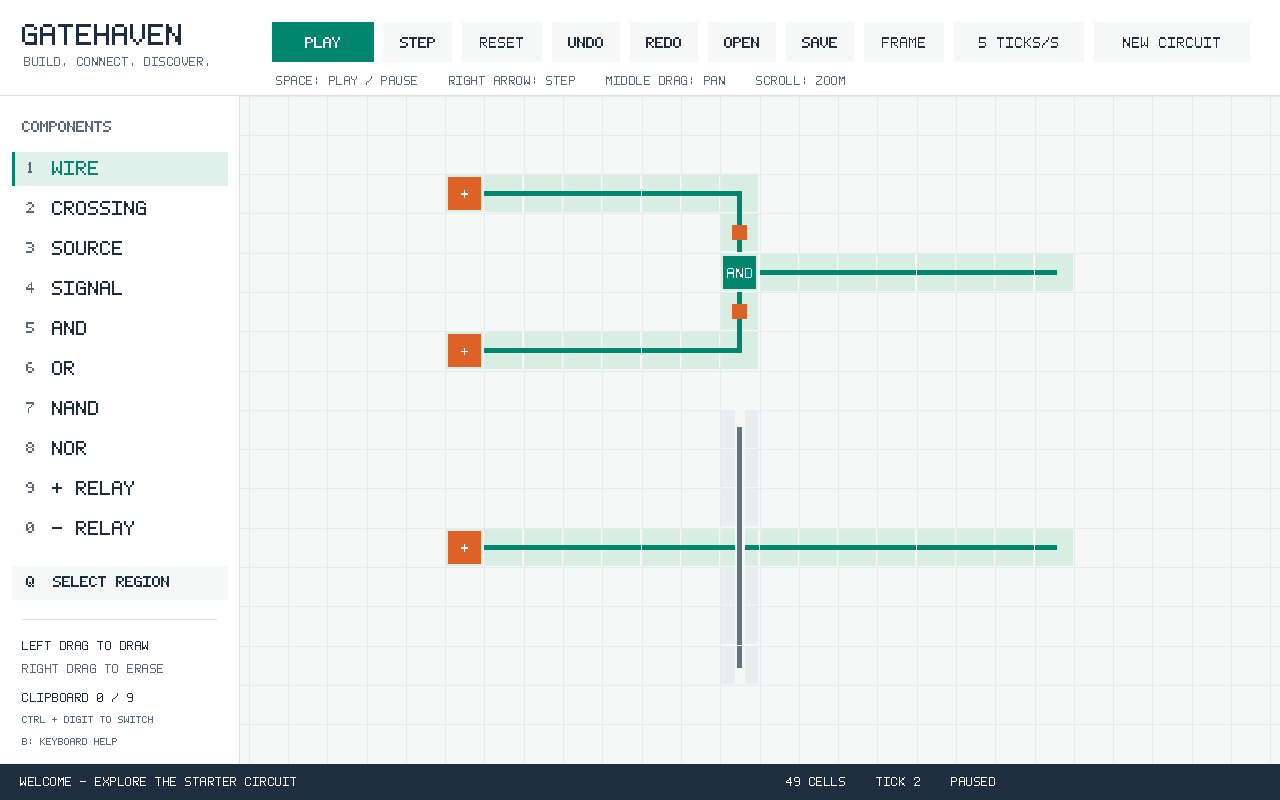
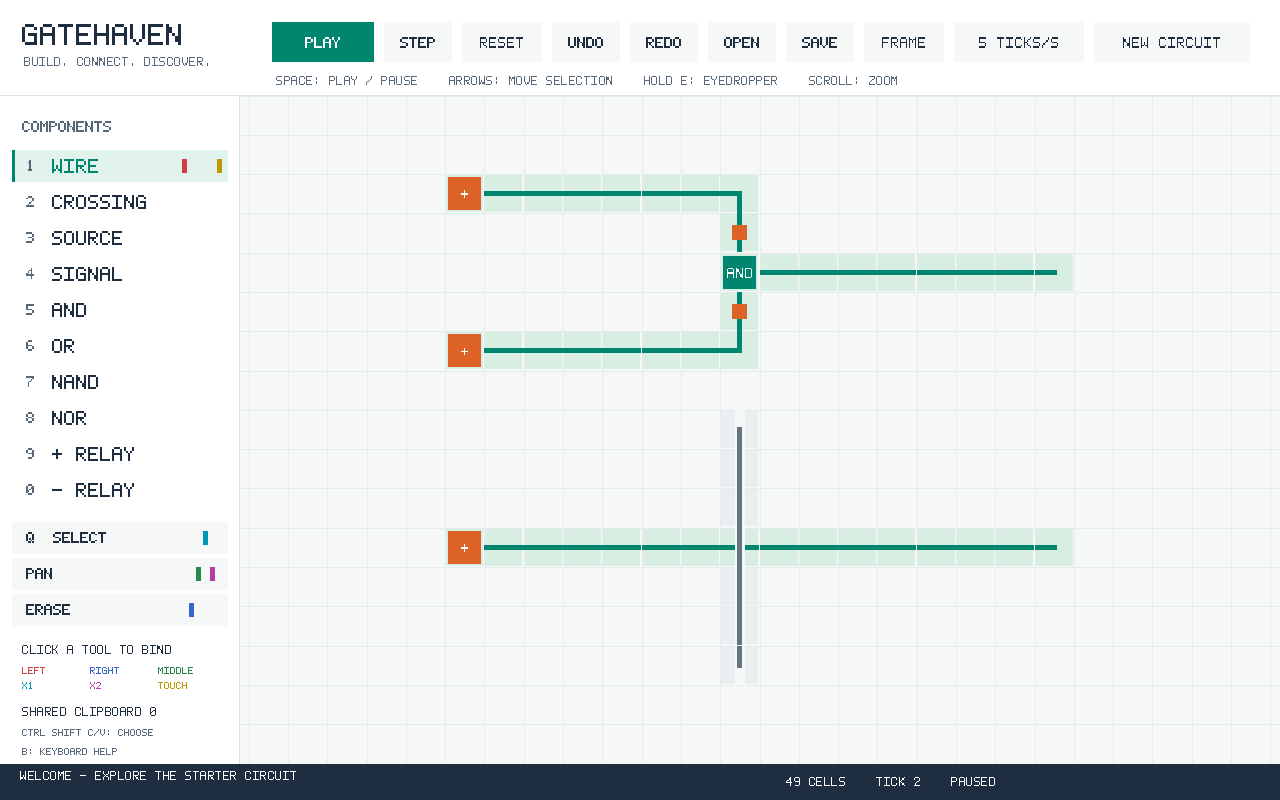
docs: describe shared editing workflows and update milestone verification

diff --git a/README.md b/README.md
@@ -15,8 +15,9 @@ for exactly what has been tested.
 
 ## Try the core
 
-A C++23 compiler and CMake 3.28 or later are required. The core has no external
-dependencies. The initial local build uses GCC 13.3.0 and CMake 4.4.4.
+A C++23 compiler and CMake 3.28 or later are required. The simulation core has no
+external dependencies. Tests also require Python 3 for the cross-process checks.
+The initial local build uses GCC 13.3.0 and CMake 4.4.4.
 
 ```sh
 git clone https://github.com/michaelbawuah/Gatehaven.git
@@ -54,21 +55,36 @@ configuration subdirectories may apply. The starter circuit opens automatically.
 | Action | Input |
 | --- | --- |
 | Choose a component | Sidebar or digits 1 through 0 |
-| Draw / erase | Left / right mouse drag |
-| Pan / zoom | Middle mouse drag / scroll wheel |
-| Play or pause / single step | Space / Right arrow |
+| Bind a tool | Click its sidebar name with the button to bind |
+| Draw / erase (default bindings) | Left / right mouse drag |
+| Pan / zoom (default bindings) | Middle mouse drag / scroll wheel |
+| Sample a component tool | Hold E and click with the button to bind |
+| Play or pause / single step | Space / Right arrow when no selection is active |
+| Set simulation speed | Ctrl+Space or the speed button; 1–1,000 ticks/s |
 | Reset / frame circuit | R / F |
 | Select a region | Q, then drag |
+| Move a selection | Arrow keys; hold Ctrl to move four cells |
 | Copy / cut / paste | Ctrl+C / Ctrl+X / Ctrl+V |
+| Copy / cut / paste with a chosen shared clipboard | Ctrl+Shift+C / Ctrl+Shift+X / Ctrl+Shift+V, then 0–9 |
 | Undo / redo | Ctrl+Z / Ctrl+Y |
 | Rotate / flip selection or clipboard | [ and ] / H and V |
-| Choose one of ten local clipboards | Ctrl+0 through Ctrl+9 |
 | Save / Save As / Open / New | Ctrl+S / Ctrl+Shift+S / Ctrl+O / Ctrl+N |
 | Show keyboard help | B |
 
 Command can replace Ctrl on macOS. Undo records one drawing stroke as one edit.
 Gate and relay pencils place a Signal when clicked on an existing cell of the
 same type. Native documents use `.ghv`; `.ccsb` import is still planned.
+
+New and Open launch separate Gatehaven instances and preserve the current
+document. All running instances share ten session clipboards. Ordinary copy,
+cut, and paste use slot 0, which follows the last clipboard used. The clipboard
+chooser selects a particular slot; an active paste preview stays unchanged if
+another window updates it. Closing the last instance clears clipboard contents.
+After an abrupt shutdown of every instance, the next launch clears abandoned data.
+
+The binding markers identify left (red), right (blue), middle (green), X1 (cyan),
+X2 (magenta), and touch (yellow). Button bindings are kept for the current window;
+saved preferences and full multitouch navigation are still planned.
 
 ## Under the hood
 
@@ -79,9 +95,12 @@ same type. Native documents use `.ghv`; `.ccsb` import is still planned.
 - Documents are validated before loading. Saves replace the destination only
   after a temporary file has been written and closed successfully.
 - Desktop controls have an automated smoke test using SDL's event queue.
+- Shared clipboard tests run separate processes, exchange data concurrently,
+  terminate peers, and verify session cleanup and recovery.
 
 [Architecture](docs/architecture.md) · [Roadmap](docs/roadmap.md) ·
-[Document format](docs/document-format.md) · [Verification](docs/verification.md)
+[Document format](docs/document-format.md) · [Shared clipboards](docs/shared-clipboards.md) ·
+[Verification](docs/verification.md)
 
 The application source does not yet have a selected public license.
 External library notices are retained in `third_party/` and must accompany

diff --git a/docs/shared-clipboards.md b/docs/shared-clipboards.md
@@ -1,0 +1,56 @@
+# Shared session clipboards
+
+Gatehaven has ten application clipboards shared by its running instances for the
+same OS user. They are separate from the operating system's text/image clipboard.
+Ctrl+C/X/V uses slot 0. Ctrl+Shift+C/X/V opens a numbered chooser. Copying to or
+pasting from an explicit slot makes slot 0 follow that slot. Copying directly to
+0 gives it a value of its own until another explicit slot is used.
+
+The desktop stores session files under `clipboards-v1` in SDL's per-user
+application preference directory. A shared `members.lock` is held by every live
+instance. `transaction.lock` serializes slot operations and membership changes.
+On POSIX these use `flock`; Windows uses `LockFileEx`. Locks are not inherited by
+new processes and the OS releases them when a process exits or crashes.
+
+Joining holds the transaction lock before probing the membership lock exclusively.
+If the exclusive lock succeeds, this is the first instance and stale payloads are
+cleared before acquiring shared membership. Leaving uses the same order: release
+membership, probe exclusive membership, and clear payloads if this is the last
+instance. Lock files remain in place to avoid creating different lock identities
+while another process is opening them. Lock acquisition times out after two
+seconds with a retryable error rather than waiting forever.
+
+If all instances crash, payload files can remain on disk until the next launch,
+which clears them. They are not a persistent circuit library. Normal final exit
+removes slot data, the default index, and any pending temporary file. A failed
+cleanup is retried by the next first member.
+
+## Stamp format, version 1
+
+All integers are unsigned and little-endian. The maximum is 1,000,000 cells and
+9,000,040 bytes per slot. Offsets preserve the selection's empty borders.
+
+| Field | Size | Rule |
+| --- | --- | --- |
+| Magic | 8 bytes | `GHCLIP01` |
+| Width, height | 8 bytes each | 1 through 2^32; both zero for an empty stamp |
+| Cell count | 8 bytes | 0 through 1,000,000 |
+| Each cell | 9 bytes | x: 4 bytes, y: 4 bytes, element: 1 byte |
+| Checksum | 8 bytes | FNV-1a 64 over all preceding bytes |
+
+Readers reject unknown/empty element values, duplicate positions, offsets
+outside the dimensions, oversized counts, length mismatches, and failed
+checksums. The checksum detects corruption; it does not authenticate a sender.
+The session directory is private to its user. Do not place it on a shared or
+network filesystem; the supported application path is local per-user storage.
+
+Payload writes use a closed temporary file and atomic replacement under the
+transaction lock. The default slot is a one-byte index, also replaced atomically.
+A process dying between payload and index replacement can leave the previous
+default index, but it cannot expose a partially written payload. Failed writes
+never delete the source of a cut operation. A paste preview captures one local
+snapshot, so another instance cannot change it while it is being positioned.
+
+The Python integration test starts separate compiled peers, coordinates their
+operations, forces process exits, and checks both data and cleanup. It runs on
+all three core CI platforms and under the Linux sanitizers.

diff --git a/docs/verification.md b/docs/verification.md
@@ -7,22 +7,37 @@ operating-system file dialogs.
 
 ## Verified locally
 
-- 32 core test cases pass in debug and release builds. Parameterized cases
+- 39 core/platform test cases pass in the local debug build. Parameterized cases
   exercise all four gates with zero through four inputs and every active-input
   count, relay behavior, delayed rising/falling edges, crossing isolation,
   deterministic insertion order, and coordinate boundaries.
 - Document tests cover malformed input, duplicate cells, coordinate overflow,
   resource limits, comments, CRLF, round trips, save replacement, and failed saves.
 - Editor tests cover stroke transactions, undo/redo branching, memory limits,
-  rotations, flips, sparse capture, and paste overflow.
+  rotations, flips, sparse capture, paste overflow, and overlapping selection moves.
+- Clipboard codec checks cover full coordinate extents, preserved empty borders,
+  every truncated prefix and single-byte bit flip of a sample message, and
+  structurally invalid messages with otherwise correct checksums.
+- The cross-process clipboard test checks concurrent writers, numbered slots,
+  default-slot caching, late joiners, live survivors after a peer is killed,
+  normal last-member cleanup, restart after a crash, and damaged payload recovery.
 - The desktop smoke test injects SDL keyboard and mouse events, then verifies
-  play/pause, stepping, drawing, undo/redo, reset, and a rendered frame.
+  play/pause, stepping, drawing, undo/redo, reset, custom speed validation,
+  clipboard menus, shared copy/paste, stable placement previews, failure-safe cut,
+  selection movement, five button bindings, touch-tagged pointer events,
+  eyedropper sampling, rebound panning, and a rendered frame. New/Open requests
+  are checked for document preservation, and a real child executable runs the
+  headless smoke workflow independently.
 - A starter-circuit screenshot was rendered from the application and visually
   inspected. Small-font rasterization and connection drawing were corrected.
 - AddressSanitizer and UndefinedBehaviorSanitizer checks run separately from the
   normal build. Local leak detection is unavailable because this environment
   blocks LeakSanitizer's `/proc` task inspection; the GitHub job keeps leak
   detection enabled so that check can run on a normal runner.
+
+The milestone extends desktop CI to all three target operating systems. The
+current run's result must be checked on GitHub; adding a workflow is not evidence
+that it passed. Simulated touch events do not substitute for touchscreen testing.
 
 ## Initial performance measurement
 

diff --git a/docs/building.md b/docs/building.md
@@ -12,7 +12,9 @@ cmake --build --preset core
 ctest --preset core
 ```
 
-The core has no SDL dependency. CMake applies high warning levels and treats
+The core has no SDL dependency. Test builds require Python 3, which drives the
+cross-process clipboard tests. Set `GATEHAVEN_BUILD_TESTS=OFF` for a build without
+that test dependency. CMake applies high warning levels and treats
 project warnings as errors. C++ extensions are disabled.
 
 ## Desktop with vcpkg
@@ -58,9 +60,10 @@ cmake -S . -B build/installed-sdl -DGATEHAVEN_BUILD_APP=ON -DCMAKE_PREFIX_PATH=/
 cmake --build build/installed-sdl --config Debug
 ```
 
-The software-only Linux CI job builds exactly SDL commit
-`829a65d769d935c4852f8159e964312c0957260a` (release-3.4.18), disabling real display
-backends for its dummy-driver smoke test. It does not exercise X11 or Wayland.
+Desktop CI builds on Linux, macOS, and Windows use exactly SDL commit
+`829a65d769d935c4852f8159e964312c0957260a` (release-3.4.18). The Linux job disables
+real display backends. All three use a software renderer and dummy video driver
+for automation; these runs do not establish physical display or native dialog QA.
 
 ## Tests and tools
 
@@ -81,6 +84,11 @@ non-MSVC compilers. The desktop self-test can run without a display:
 SDL_VIDEODRIVER=dummy ./build/desktop/gatehaven --self-test
 SDL_VIDEODRIVER=dummy ./build/desktop/gatehaven --snapshot preview.bmp
 ```
+
+The `gatehaven_snapshot` build target writes `gatehaven.bmp` in the build folder
+and resolves the executable correctly for Windows configurations and macOS app
+bundles. Set `SDL_VIDEODRIVER=dummy` for headless use. `gatehaven --new` opens an
+empty circuit; a document path opens that file in the newly started instance.
 
 Use `clang-format` with the repository configuration and `clang-tidy` with
 `build/core/compile_commands.json`. Static-analysis CI is a remaining release gate.

diff --git a/docs/architecture.md b/docs/architecture.md
@@ -5,6 +5,7 @@
 - `include/gatehaven` and `src/core`: circuits, simulation, documents, and editing.
   The core has no windowing, graphics, networking, or operating-system dependency.
 - `src/app`: native SDL3 presentation and input handling.
+- `src/platform`: process identity and OS-backed clipboard session locks.
 - `tests`: executable checks of circuit rules and document/editor behavior.
 - `bench`: repeatable workloads with explicit circuit sizes and step counts.
 - `samples`: circuits authored for Gatehaven.
@@ -32,6 +33,17 @@ need an explicit ownership model and measured benefit before being introduced.
 Native documents contain circuit structure, not machine-dependent pointers or
 running simulation state. Loading must either produce a complete validated
 document or leave the current circuit unchanged.
+
+New/Open start the resolved executable using SDL's argument-array process API;
+paths never pass through a command shell. Clipboard session members keep a shared
+OS file lock for their lifetime. A separate transaction lock serializes joins,
+leaves, and payload replacement. The first member clears data left by an earlier
+crash; the last normal member clears the session. See [the protocol](shared-clipboards.md).
+
+UI copy/paste reads and writes a bounded stamp format. Cut removes cells only
+after a successful write. Paste takes a local snapshot so transforms and incoming
+copies from other windows cannot change an in-progress placement. Selection moves
+clear the source and place the destination within one undo transaction.
 
 ## Dependency policy
 

diff --git a/docs/roadmap.md b/docs/roadmap.md
@@ -28,11 +28,12 @@ verification. Release readiness depends on the acceptance criteria.
 ## Current prototype
 
 The sparse core, gate/relay simulation, native documents, transactional editor,
-ten in-process clipboards, and SDL3 desktop canvas are implemented. The desktop
-has file dialogs, region selection, transforms, basic timing controls, and a
-small original bitmap font.
+ten shared session clipboards, and SDL3 desktop canvas are implemented. New/Open
+launch independent processes. The desktop has file dialogs, region selection,
+rotation/flips, keyboard movement, a clipboard chooser, a custom speed dialog,
+five mouse-button bindings plus a separate touch binding, and an eyedropper.
 
-The clipboards are not shared between processes yet. New/Open currently replace
-the document in one window. Communicators, legacy import, advanced selection,
-custom mouse bindings, full touch interaction, installers, signing, and native
-hardware acceptance are still outstanding. Performance parity is not established.
+Next: connected and additive/subtractive selection, polyline drawing, beginner
+hints, and persistent input preferences. Communicators, legacy import, full
+multitouch navigation, installers, signing, and native hardware acceptance are
+still outstanding. Performance parity is not established.
